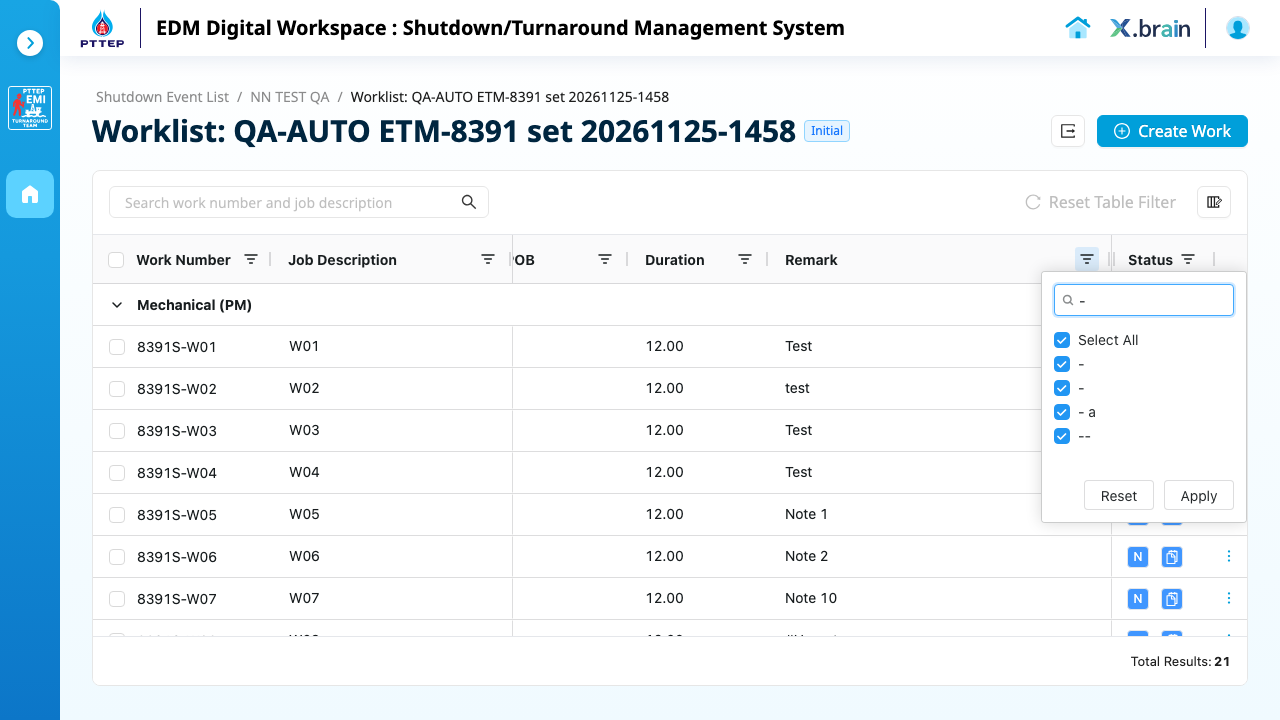
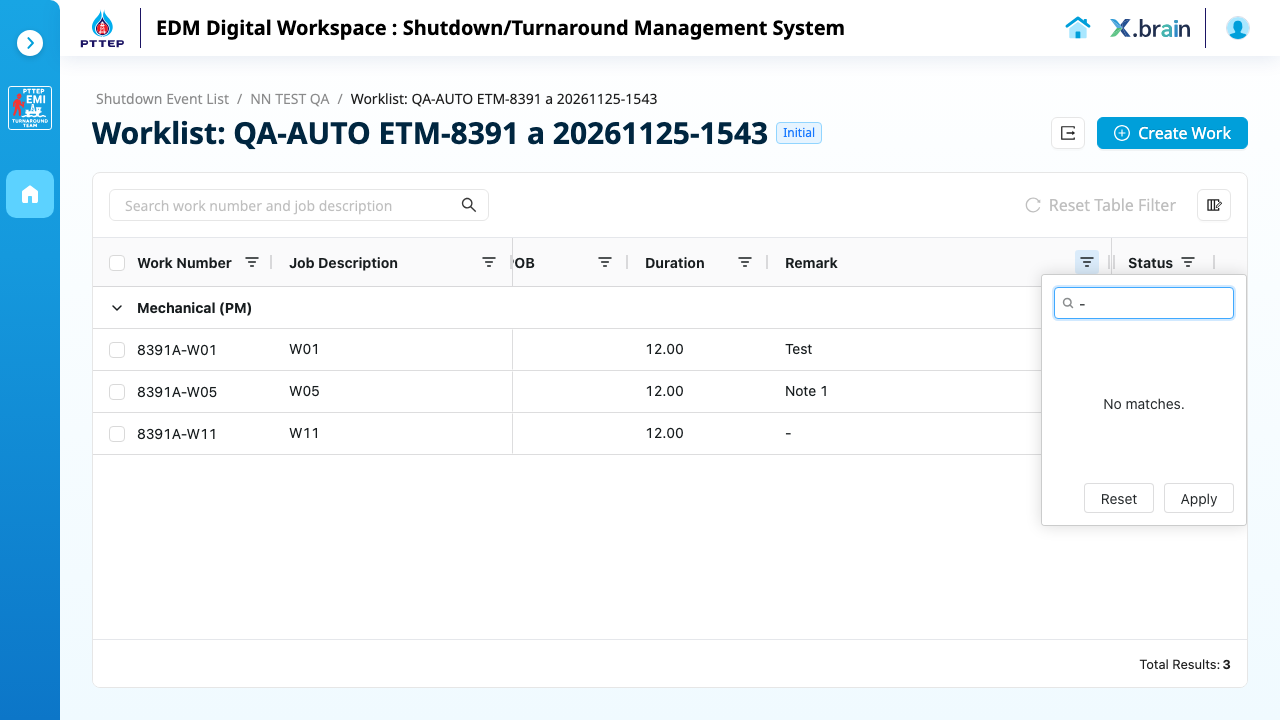
work(ETM-8391): Excel-mode filter by design, 8649/8655/8656 steps reworded and re-run, ETM-10065 retest

diff --git a/work/ETM-8391/handover.md b/work/ETM-8391/handover.md
@@ -1,0 +1,54 @@
+# ETM-8391 handover (25 Nov 2026, evening)
+
+Test Execution ETM-8874 (Test Plan ETM-8636). Xray at start of this session: 7 PASSED, 3 FAILED (8650, 8656, 8658), 6 TO DO. Nothing pushed to Xray or written to Jira in this session.
+
+## What happened today (evening)
+- A new FE build reached QA in the evening. The column filters now behave like the Excel filter: typing a search ticks the options found; `Apply` with nothing ticked is **disabled**; a selection made inside a search is dropped when the search is cleared; the search ignores letter case; during a search the row reads `(Select All Search Results)`; the button `Clear` is now `Reset`.
+- Script fixes (ep-etm-fe-qa, NOT committed): `tests/fe/e2e/worklist/remarkFilter.helpers.ts` (Select All regex incl. search results, `applyEnabled`, `applyNothingTicked`, `closeWithoutApply`, Select All drawn before use, untick of a partly ticked Select All), `verifyWorklistRemarkFilter.spec.ts` (8649 / 8655 compare "nothing ticked" with the Job Description filter as Apply disabled or Total Results; 8654 waits for rows). Read-only probe: `tests/fe/explore/etm8391FilterProbe.spec.ts`.
+- Runs: `2026-11-25_191825`, `192950` (full spec), `195104` (8649/8654/8655/8656), probe `195830` (search `-`).
+- Defects: ETM-8896, 8897, 8898, 8902 are "Ready for UAT". ETM-10065 (search `-`) is "Deployed to QA" and is **fixed on QA**: searching `-` lists Select All, `-` (Blank), ` - `, `- `, `- a`, `--` (probe picture `ep-etm-fe-qa/output/runs/2026-11-25_195830_ETM-8391/.../probe-dash.png`). Retest comment not written yet (needs the user's yes).
+
+## Status per test
+| Test | Xray now | Latest run | Next step / blocker |
+|---|---|---|---|
+| ETM-8648 | TO DO | skipped (precondition) | **Blocker:** needs a QA user without View Worklist. ETM has only TM and JO; BA/user to decide "not applicable" or give a user. |
+| ETM-8649 | PASSED | passed 195104 | none |
+| ETM-8650 | FAILED (ETM-8896) | skipped, partial (all measured checks passed, 192950) | ETM-8896 fixed (order now correct). **Blocker:** a person confirms the hover look in the pictures, then PASSED. |
+| ETM-8651 | TO DO | skipped, not-checked | **Blocker:** Create Work form has no Remark cell, so step "keep Remark empty" cannot be read; user confirms by hand or Xray step reworded (Jira write). |
+| ETM-8652 | PASSED | passed | none |
+| ETM-8653 | PASSED | passed | none |
+| ETM-8654 | TO DO | skipped, partial (all measured passed 195104) | **Blocker:** a person confirms the hover look in the pictures. |
+| ETM-8655 | PASSED | passed 195104 | Done (pushed). Passes with "Apply disabled, same as Job Description"; if the BA says B (bug) this changes. |
+| ETM-8656 | FAILED | failed 195104, step 6 | ETM-10065 part fixed. New failure: step 6/7 (ticks made inside a search are dropped when the search is cleared). **Blocker:** BA answer, `questions-for-BA-8656-search-select.md` (A = reword Xray steps 6-7, B = new defect). Verdict table: `verdict-table.md`. Note: push-plan still shows the old verdict `app` (ETM-10065); keep FAILED until the BA answers. |
+| ETM-8657 | TO DO | skipped, partial | **Blocker:** a person compares the two filter panels in the pictures. |
+| ETM-8658 | PASSED | passed 192950 | Done (pushed). |
+| ETM-8659-8662 | PASSED | passed | none |
+| ETM-8663 | TO DO | skipped, partial | **Blocker:** the real pre-release saved state cannot be made; user accepts the rebuilt old address as proof (then PASSED) or marks manual. |
+
+Push plan (`push-plan.md`): 10 PASSED + 8656 FAILED. ETM-8897 / ETM-8902 in the plan are defect retests, not Tests of ETM-8874: leave them out of the push.
+
+## Waiting for the user (one batch question, queued with `ask --later`)
+1. Xray push per `push-plan.md` (8655, 8658 to PASSED; others unchanged).
+2. "Retest: Passed" comment with the picture on ETM-10065.
+3. Send `questions-for-BA-8656-search-select.md` to the BA.
+4. The partial tests (8650, 8651, 8654, 8657, 8663): confirm from the pictures, and 8648 not applicable?
+5. Commit the script fixes in ep-etm-fe-qa.
+
+## Update 25 Nov 23:30
+- Xray ETM-8874 now: 9 PASSED, 2 FAILED (8650, 8656), 5 TO DO (8648, 8651, 8654, 8657, 8663). 8655 and 8658 were pushed from another session.
+- The five not-proven tests and 8648 are in ONE question: `partial-confirm.md` (per test: what the script proved, what a person must look at, which pictures). Answer like `8650=pass 8651=pass 8654=pass 8657=pass 8663=pass 8648=na`.
+- ETM-8897 and ETM-8902 removed from `run-results.json` / push plan: they are Defects, not Tests of ETM-8874. ETM-8902 manual retest (10:14) could not follow the defect flow: the edit page has no breadcrumb in this build (step 3 fail, steps 4-5 needs-human). The Defect is already "Ready for UAT"; no QA action left unless the BA says the flow still exists.
+- ETM-10065 "Retest: Passed" comment: still waiting for the user's own yes in this chat (the board question was closed without an answer).
+- stms-fe pulled to develop 1.26.36 (user asked, 26 Nov). The filter change is deliberate: commit 6fba9abf (ETM-10065 fix) set `excelMode: 'mac'`, `applyMiniFilterWhileTyping: false`; c6ac6044 (ETM-9231) made the search ignore case. Added to the BA question for 8656: likely answer A (reword Xray steps 6-7).
+- 25 Nov 23:34: user answered "ยังก่อน" on the board to the partial-confirm question. Nothing pushed; 8650/8651/8654/8657/8663/8648 stay as they are until the user answers again.
+
+## Update 26 Nov 09:55 - decision A applied
+- QA lead decision A (Excel-mode filter by design) recorded in `ba-answers.md`. Script: 8656 steps 6-7 rewritten (Apply while the search text is there; reopen shows only the Note ticks), pickOnly unticks the auto-ticked search results, 8656 step 9 and 8655 step 16 no longer depend on Total Results (other works exist: 22).
+- Runs 26 Nov: full spec `093547` (9 passed), `093308` 8656 passed (incl. steps 14-15 = ETM-10065 fixed), `095214` 8655 passed. All automated tests pass; 5 partial + 8648 unchanged (user: "ยังก่อน").
+- Waiting for the user's yes in this chat: Xray rewording `xray-reword-excel-mode.md` (8656 steps 6-7, 8655 steps 3/11/16/18/21/22, 8649 step 12; backup saved), then push 8656 FAILED -> PASSED, and the "Retest: Passed" comment on ETM-10065.
+
+## Done 26 Nov 10:05 (user yes in chat: "ได้ทำเลย")
+- Xray steps reworded (9 steps): 8656 steps 6-7, 8655 steps 3/11/16/18/21/22, 8649 step 12 (`xray-reword-excel-mode.md`, backup `xray-steps-before-8649-8655-8656-2026-11-26.json`).
+- ETM-8656 pushed PASSED in ETM-8874 with 15 step pictures (`xray-evidence-20261126/ETM-8656`).
+- ETM-10065: a "Retest: Passed" comment (with picture, [QA] Retest ETM-10088, status Ready for UAT) was already there from 25 Nov 21:30. Added a second comment (26 Nov) with steps 14-15 and two pictures, dev mentioned.
+- Xray ETM-8874 now: 10 PASSED, 1 FAILED (8650), 5 TO DO. Left: 8650/8651/8654/8657/8663 person check (partial-confirm.md, user said "ยังก่อน"), 8648 N/A question. Script fixes in ep-etm-fe-qa still not committed.

diff --git a/work/ETM-8391/defect-draft-search-dash.md b/work/ETM-8391/defect-draft-search-dash.md
@@ -1,22 +1,26 @@
-# [ETM-8391] Remark filter: searching "-" does not list the Blank option "-"
+# [ETM-8391] Remark filter: searching "-" does not find the Blank option "-" (No matches.)
 
-**Environment:** QA (https://stms-qa.apps.pttep.com), role Turnaround Manager, Worklist of a Plan on event NN TEST QA. Found 25 Nov 2026 by Playwright ETM-8656 step 14 (runs 2026-11-25 14:00 and 14:55) and checked by hand on the live page.
+**Environment:** QA (https://stms-qa.apps.pttep.com), role Turnaround Manager, Worklists of two Plans on event NN TEST QA. Found 25 Nov 2026 by Playwright ETM-8656 step 14, re-proved by hand on 25 Nov with data that can be entered on the screen.
 
-In the Worklist, the Remark column filter shows works with an empty Remark as the Blank option `-` (first under Select All). When `-` is typed into the Search box of that filter, the Blank option `-` is not listed, so it cannot be found or ticked through the search. Other options that contain a hyphen are listed.
+In the Worklist, the Remark column filter shows works with a Blank Remark as the option `-`. Typing `-` in the Search box of that filter finds nothing ("No matches."), although `-` is in the option list. This happens both when the Remark is empty and when the Remark is exactly `-` typed by the user.
 
-Data (made through the screen): works with Remark empty (W11), `-` (W13), `--` (W14), `- a` (W15), `- ` (W21), ` - ` (W22).
+Data (both can be entered on the screen):
+- Plan A: W01 Remark `Test`, W05 Remark `Note 1`, W11 Remark empty.
+- Plan C: W01 Remark `Test`, W05 Remark `Note 1`, W13 Remark `-`.
 
 ### Step to Reproduce
-1. Log in as Turnaround Manager and open the Worklist of the Plan.
-2. Open the filter on the Remark column. The list shows `-` (Blank) first under Select All.
+1. Log in as Turnaround Manager and open the Worklist of Plan A (or Plan C).
+2. Open the filter on the Remark column. The options are `-`, `Note 1`, `Test`.
 3. Type `-` in the Search box of the filter.
 
 ### Actual Result
-Only `--`, `- a`, `- ` and ` - ` are listed. The Blank option `-` is not in the list.
+The filter shows "No matches." The option `-` is not found, in Plan A (empty Remark) and in Plan C (Remark `-`).
 
 Pictures:
-- work/ETM-8391/defect5-pics/1-before-full-list-has-dash.png (full list, Blank `-` shown first)
-- work/ETM-8391/defect5-pics/2-search-dash-no-blank-option.png (after typing `-`: no Blank option)
+- work/ETM-8391/defect5-pics/plan-a-1-options-before-search.png (Plan A, options `-`, `Note 1`, `Test`)
+- work/ETM-8391/defect5-pics/plan-a-2-after-typing-dash.png (Plan A, after typing `-`: No matches.)
+- work/ETM-8391/defect5-pics/plan-c-1-options-before-search.png (Plan C, options `-`, `Note 1`, `Test`)
+- work/ETM-8391/defect5-pics/plan-c-2-after-typing-dash.png (Plan C, after typing `-`: No matches.)
 
 ### Expected Result
-The Blank option `-` is listed together with `--`, `- a`, `- ` and ` - ` (Xray ETM-8656 step 14), so the user can tick only `-` from the search (step 15).
+The option `-` is listed after typing `-`, so the user can tick it from the search (Xray ETM-8656 steps 14 and 15: typing `-` lists the hyphen options including `-`; tick only `-` shows only the Blank works).

diff --git a/work/ETM-8391/evidence-check/defect-draft-search-dash.brief.md b/work/ETM-8391/evidence-check/defect-draft-search-dash.brief.md
@@ -1,25 +1,29 @@
 # Evidence check defect-draft-search-dash (ETM-8391, defect)
 
-sourceHash: 4ca89179efb4
+sourceHash: 6266bbf434eb
 
 You read this BLIND: the first agent's result is not here on purpose. Do not open the source file, the run log,
 findings.json, verdict-table.md or any file that states a result for this check. Read the pictures yourself.
 
 ## Environment
-QA (https://stms-qa.apps.pttep.com), role Turnaround Manager, Worklist of a Plan on event NN TEST QA. Found 25 Nov 2026 by Playwright ETM-8656 step 14 (runs 2026-11-25 14:00 and 14:55) and checked by hand on the live page.
+QA (https://stms-qa.apps.pttep.com), role Turnaround Manager, Worklists of two Plans on event NN TEST QA. Found 25 Nov 2026 by Playwright ETM-8656 step 14, re-proved by hand on 25 Nov with data that can be entered on the screen.
 
-In the Worklist, the Remark column filter shows works with an empty Remark as the Blank option `-` (first under Select All). When `-` is typed into the Search box of that filter, the Blank option `-` is not listed, so it cannot be found or ticked through the search. Other options that contain a hyphen are listed.
+In the Worklist, the Remark column filter shows works with a Blank Remark as the option `-`. Typing `-` in the Search box of that filter finds nothing ("No matches."), although `-` is in the option list. This happens both when the Remark is empty and when the Remark is exactly `-` typed by the user.
 
-Data (made through the screen): works with Remark empty (W11), `-` (W13), `--` (W14), `- a` (W15), `- ` (W21), ` - ` (W22).
+Data (both can be entered on the screen):
+- Plan A: W01 Remark `Test`, W05 Remark `Note 1`, W11 Remark empty.
+- Plan C: W01 Remark `Test`, W05 Remark `Note 1`, W13 Remark `-`.
 
 ## Steps
-1. Log in as Turnaround Manager and open the Worklist of the Plan.
-2. Open the filter on the Remark column. The list shows `-` (Blank) first under Select All.
+1. Log in as Turnaround Manager and open the Worklist of Plan A (or Plan C).
+2. Open the filter on the Remark column. The options are `-`, `Note 1`, `Test`.
 3. Type `-` in the Search box of the filter.
 
 ## Expected Result (as the draft states it: check it has a source)
-The Blank option `-` is listed together with `--`, `- a`, `- ` and ` - ` (Xray ETM-8656 step 14), so the user can tick only `-` from the search (step 15).
+The option `-` is listed after typing `-`, so the user can tick it from the search (Xray ETM-8656 steps 14 and 15: typing `-` lists the hyphen options including `-`; tick only `-` shows only the Blank works).
 
 ## Pictures
 - /Users/ncy/Downloads/NN/DocforAi/STMS/qa-team-etm/work/ETM-8391/evidence-check/defect-draft-search-dash.pics/pic-1.png
 - /Users/ncy/Downloads/NN/DocforAi/STMS/qa-team-etm/work/ETM-8391/evidence-check/defect-draft-search-dash.pics/pic-2.png
+- /Users/ncy/Downloads/NN/DocforAi/STMS/qa-team-etm/work/ETM-8391/evidence-check/defect-draft-search-dash.pics/pic-3.png
+- /Users/ncy/Downloads/NN/DocforAi/STMS/qa-team-etm/work/ETM-8391/evidence-check/defect-draft-search-dash.pics/pic-4.png

diff --git a/work/ETM-8391/questions-for-BA-8656-search-select.md b/work/ETM-8391/questions-for-BA-8656-search-select.md
@@ -1,0 +1,28 @@
+# ETM-8391 Question for BA: Remark filter, selection made inside a search after the search is cleared
+
+Story: ETM-8391 [Improvement] View Worklist Table - Remark Column Filter
+Xray Test: ETM-8656, steps 5 to 7. Seen on QA on 25 Nov 2026 (evening build), Turnaround Manager, automated run `2026-11-25_195104_ETM-8391` and a read-only check of the panel.
+
+## What changed in the evening build of 25 Nov 2026
+The column filters (Remark and Job Description alike) now behave like the Excel filter:
+1. Typing in the filter's Search box ticks all options found (e.g. `Note` ticks `Note 1`, `Note 2`, `Note 10`).
+2. Clicking `Apply` while the search text is there filters the table to the options found (only W05, W06, W07).
+3. Clearing the Search box (without Apply) brings back the full list with the earlier selection: every option ticked again. The ticks made inside the search are not kept.
+4. With nothing ticked, `Apply` is disabled (it was enabled before and gave "No results found").
+5. The search ignores letter case now (`note` finds `Note 1`).
+
+## Test ETM-8656 as written
+- Step 5: untick everything, type `Note`, tick Select All: the three Note options are ticked. **Matches.**
+- Step 6: clear the Search box: only the three Note options stay ticked, the other options are not ticked. **Live: every option is ticked again.**
+- Step 7: Apply: only the Note works are shown. **Live: every option is ticked, so Apply after the cleared search shows all works** (read from the ticks; not applied in the run).
+
+## Question
+Is the new behaviour (point 3: a selection made inside a search is dropped when the search is cleared; the user must click Apply while the search text is still there) the intended design?
+- **A.** Yes, by design (Excel-like filter, same for all columns). QA will reword Xray ETM-8656 steps 6 and 7 to "Apply while the search text `Note` is shown -> only W05, W06, W07", and the nothing-ticked steps (ETM-8649, ETM-8655) to "Apply is disabled, same as the Job Description filter".
+- **B.** No, the ticks made inside a search must be kept after the search is cleared. Then this is a bug in all column filters.
+
+Please also confirm point 4 (Apply disabled when nothing is ticked) is intended. Earlier answer (24 Nov, Q6) said nothing ticked shows no works.
+
+## Note from the code (stms-fe develop 1.26.36, read only)
+The change is deliberate: commit `6fba9abf` (25 Nov 17:03, "ETM-10065 ... Blank filter") set the worklist column filters to AG Grid `excelMode: 'mac'` with `applyMiniFilterWhileTyping: false`. The dev comment says: typing in the search box narrows the ticked options to the matches, so Apply after a search keeps only what was found. In this mode a selection made inside a search is not kept when the search is cleared, and Apply is disabled while nothing is ticked. Commit `c6ac6044` (ETM-9231) made the search ignore letter case again on purpose.
+So the question is only whether the BA agrees with this design (answer A), or wants the old behaviour back (answer B).

diff --git a/work/ETM-8391/partial-confirm.md b/work/ETM-8391/partial-confirm.md
@@ -1,0 +1,18 @@
+# ETM-8391 - tests that need a person's look (25 Nov 2026)
+
+The script ran every step of these tests and every measured check passed. Each stays "Not proven" only for the part named below, which a script cannot judge. Answer per test in one reply, e.g. `8650=pass 8651=pass 8654=pass 8657=fail 8663=manual 8648=na`.
+A `pass` becomes PASSED in Xray (8650 is FAILED now, from defect ETM-8896, which is Ready for UAT). Nothing is pushed before your answer.
+
+Evidence reports (open in the browser; step pictures inside):
+- R1 = `ep-etm-fe-qa/output/runs/2026-11-25_192950_ETM-8391/evidence-report-ETM-8391-20261125-192950.html` (8650, 8651, 8657, 8663)
+- R2 = `ep-etm-fe-qa/output/runs/2026-11-25_195104_ETM-8391/evidence-report-ETM-8391-20261125-195104.html` (8654)
+Step pictures also in `ep-etm-fe-qa/output/evidence/<TEST>/`.
+
+| Test | Script proved (all steps ran, all checks passed) | Left for a person | Where to look |
+|---|---|---|---|
+| ETM-8650 | `-` first and only once; Note 1, Note 2, Note 10 order; symbols, digits, A-Z, Thai order (ETM-8896 fixed); long option cut with ellipsis on one line, hover text = full value | Does the hover text box LOOK right (readable, not cut) | R1, ETM-8650 steps 13 and 16 |
+| ETM-8651 | Empty, spaces-only and `-` Remarks are one `-` option; a work saved with no Remark joins `-`; same in worklists A, B, C | Step 4 "keep Remark empty on Create Work": the form has **no Remark field**, so the script could not read it. The work is saved without a Remark and shows under `-` (step 6). Accept as pass, or reword step 4 ("the form has no Remark field") | R1, ETM-8651 steps 4 to 6 |
+| ETM-8654 | The 60+ option list scrolls inside the panel, page behind does not move, Remark 060 last and can be ticked; W17 cell has ellipsis; hover text = full 200 characters, also after the filter was opened | Does the hover text box LOOK right | R2, ETM-8654 steps 5 to 7 |
+| ETM-8657 | Fonts, colours, sizes, spacing, checkbox and search box of the Remark panel equal the Job Description panel | Do the two panels look the same to you | R1, ETM-8657 steps 1 to 3 |
+| ETM-8663 | Old Remark keys (`wsRemarkType` / `wsRemarkValue`) in the address, in the `#` part and as an old query link, are dropped: the Remark filter starts at Select All, Job Owner kept, table not filtered by the old text | The real pre-release saved state cannot be made any more; the old state is rebuilt as an old-format address. Accept this as proof (pass), or mark manual / not applicable | R1, ETM-8663 steps 3 to 9 |
+| ETM-8648 | not run | Needs a QA login WITHOUT View Worklist. ETM has only TM and JO (both can view the worklist), so no such user exists. Mark not applicable (stays TO DO with a comment), or the BA names a user | - |

diff --git a/work/ETM-8391/push-plan.md b/work/ETM-8391/push-plan.md
@@ -1,24 +1,22 @@
-# ETM-8391 - Xray push plan (2026-11-25)
+# ETM-8391 - Xray push plan (2026-11-26)
 
-Send 8: 8 PASSED, 0 FAILED. Stay TO DO: 10.
+Send 10: 10 PASSED, 0 FAILED. Stay TO DO: 6.
 
 | Test | Latest result | Send to Xray | Why |
 |---|---|---|---|
 | ETM-8648 | skipped:precondition | stays TO DO | skipped / not proven: never PASSED |
-| ETM-8649 | passed | PASSED | passed in 2026-11-25_113137_ETM-8391 |
+| ETM-8649 | passed | PASSED | passed in 2026-11-26_093547_ETM-8391 |
 | ETM-8650 | skipped:not-proven | stays TO DO | skipped / not proven: never PASSED |
 | ETM-8651 | skipped:not-proven | stays TO DO | skipped / not proven: never PASSED |
-| ETM-8652 | passed | PASSED | passed in 2026-11-25_113137_ETM-8391 |
-| ETM-8653 | passed | PASSED | passed in 2026-11-25_113137_ETM-8391 |
-| ETM-8654 | failed | stays TO DO | no verdict yet (verdicts.mjs table) |
-| ETM-8655 | failed | stays TO DO | no verdict yet (verdicts.mjs table) |
-| ETM-8656 | failed | stays TO DO | no verdict yet (verdicts.mjs table) |
+| ETM-8652 | passed | PASSED | passed in 2026-11-26_093547_ETM-8391 |
+| ETM-8653 | passed | PASSED | passed in 2026-11-26_093547_ETM-8391 |
+| ETM-8654 | skipped:not-proven | stays TO DO | skipped / not proven: never PASSED |
+| ETM-8655 | passed | PASSED | passed in 2026-11-26_095214_ETM-8391 |
+| ETM-8656 | passed | PASSED | passed in 2026-11-26_093547_ETM-8391 |
 | ETM-8657 | skipped:not-proven | stays TO DO | skipped / not proven: never PASSED |
-| ETM-8658 | failed | stays TO DO | no verdict yet (verdicts.mjs table) |
-| ETM-8659 | passed | PASSED | passed in 2026-11-25_132527_ETM-8391 |
-| ETM-8660 | passed | PASSED | passed in 2026-11-25_113137_ETM-8391 |
-| ETM-8661 | passed | PASSED | passed in 2026-11-25_113137_ETM-8391 |
-| ETM-8662 | passed | PASSED | passed in 2026-11-25_113137_ETM-8391 |
-| ETM-8663 | failed | stays TO DO | no verdict yet (verdicts.mjs table) |
-| ETM-8897 | passed | PASSED | passed in 2026-11-25_101437_ETM-8391_manual_8897 |
-| ETM-8902 | failed | stays TO DO | no verdict yet (verdicts.mjs table) |
+| ETM-8658 | passed | PASSED | passed in 2026-11-26_093547_ETM-8391 |
+| ETM-8659 | passed | PASSED | passed in 2026-11-26_093547_ETM-8391 |
+| ETM-8660 | passed | PASSED | passed in 2026-11-26_093547_ETM-8391 |
+| ETM-8661 | passed | PASSED | passed in 2026-11-26_093547_ETM-8391 |
+| ETM-8662 | passed | PASSED | passed in 2026-11-26_093547_ETM-8391 |
+| ETM-8663 | skipped:not-proven | stays TO DO | skipped / not proven: never PASSED |

diff --git a/work/ETM-8391/dev-brief-ETM-10065.md b/work/ETM-8391/dev-brief-ETM-10065.md
@@ -1,13 +1,13 @@
-# Dev brief - [ETM-8391] Remark filter: searching "-" does not list the Blank option "-"
+# Dev brief ETM-10065 - [ETM-8391] Remark filter: typing "-" in the filter search finds nothing (No matches.)
 
 ## 1. What is wrong
-In the Worklist Remark column filter, works with a Blank Remark (empty) are grouped under the option `-`. Typing `-` in the filter's Search box lists the other hyphen values (`--`, `- a`, `- `, ` - `) but not the Blank option `-`. The Blank option cannot be found through the search.
+In the Worklist Remark column filter, works with a Blank Remark (empty, or exactly `-`) are grouped under the option `-`. Typing `-` in the filter's Search box shows "No matches." (with other hyphen values present, e.g. `--`, `- a`, those are listed but `-` is not). The Blank option cannot be found through the search.
 
 ## 2. Where
 - Page: Worklist of a Plan (`/shutdown-event-list/events/<event>/planning/<plan>/worklist/<worklist>`), Remark column filter (AG Grid set filter with the Search box "Search filter values").
 - Environment: QA (https://stms-qa.apps.pttep.com), 25 Nov 2026.
 - Role: Turnaround Manager.
-- Data: works with Remark empty, `-`, `--`, `- a`, `- `, ` - ` (all can be entered on the screen).
+- Data (entered on the screen): Plan A W01 `Test`, W05 `Note 1`, W11 empty; Plan C W01 `Test`, W05 `Note 1`, W13 `-`.
 
 ## 3. Steps to reproduce
 1. Open the Worklist of the Plan.
@@ -17,8 +17,8 @@ In the Worklist Remark column filter, works with a Blank Remark (empty) are grou
 ## 4. Actual vs Expected
 | | Result |
 |---|---|
-| Actual | Only `--`, `- a`, `- `, ` - ` are listed. No Blank option `-`. |
-| Expected | `-` (Blank) is listed too, with `--`, `- a`, `- `, ` - `, and can be ticked alone from the search. |
+| Actual | "No matches." in Plan A (empty Remark) and Plan C (Remark `-`). |
+| Expected | `-` (Blank) is listed, with any other hyphen values, and can be ticked alone from the search. |
 
 ## 5. Rule source
 - Story ETM-8391: Blank Remarks (empty, spaces only, exactly `-`) are shown as one option `-`.

diff --git a/work/ETM-8391/xray-reword-excel-mode.md b/work/ETM-8391/xray-reword-excel-mode.md
@@ -1,0 +1,15 @@
+# ETM-8391 - Xray rewording for the Excel-mode filter (WRITTEN 26 Nov 2026 10:00, user yes in chat "ได้ทำเลย"; 8655 step 3/22 written without the table clause, 8655 step 16/22 action now "Look at the Apply button")
+
+Decision: QA lead, 26 Nov 2026, answer A (by design; stms-fe commit 6fba9abf `excelMode: 'mac'`). Backup of the current text: `xray-steps-before-8649-8655-8656-2026-11-26.json`. Writing needs the user's yes in this chat.
+
+| Test | Step | Action (new) | Expected (new) |
+|---|---|---|---|
+| ETM-8656 | 6 | Click `Apply` while `Note` is still in the search box. | Only W05, W06 and W07 are shown. |
+| ETM-8656 | 7 | Open the filter on the `Remark` column again. | Only `Note 1`, `Note 2` and `Note 10` are ticked. (A selection made inside a search is not kept if the search is cleared before Apply: by design.) |
+| ETM-8655 | 3 | Untick `Note 2`. | No option is ticked and `Apply` is disabled, the same as the Job Description filter with nothing ticked; the table still shows only W06. |
+| ETM-8655 | 11 | Untick `Select All` in the `Job Description` filter. | Every option is unticked and `Apply` is disabled (Job Description reference). |
+| ETM-8655 | 16 | Look at the `Apply` button and the table. | Same as the Job Description reference: `Apply` is disabled and the table keeps the last applied filter (all works except W05). |
+| ETM-8655 | 18 | Tick one option in the `Job Description` filter and untick it again. | No option is ticked and `Apply` is disabled (single-untick reference). |
+| ETM-8655 | 21 | Untick `Note 1`. | No option is ticked and `Apply` is disabled. |
+| ETM-8655 | 22 | Look at the table. | Same as the single-untick reference: the table still shows only W05. |
+| ETM-8649 | 12 | Untick `Note 1`. | No option is ticked and `Apply` is disabled, the same as the Job Description filter with nothing ticked. |

diff --git a/work/ETM-8391/defect-drafts.md b/work/ETM-8391/defect-drafts.md
@@ -146,7 +146,7 @@ Xray: no Test step covers this flow. Link to ETM-8662 (reload with Blank) as the
 
 ---
 
-## Defect 5 - Searching "-" in the Remark filter does not list the Blank option "-"
+## Defect 5 - LOGGED ETM-10065 (25 Nov 2026) - Searching "-" in the Remark filter does not find the Blank option "-"
 
 Found: Playwright ETM-8656 step 14 (runs 2026-11-25 14:00 and 14:55), confirmed by hand on the live page 25 Nov; the user agreed it is wrong (chat 25 Nov).
 Data (made through the UI, reachable): a worklist with works whose Remark is empty (W11), `-` (W13), `--` (W14), `- a` (W15), `- ` (W21), ` - ` (W22).
@@ -160,7 +160,7 @@ Expected: the options that contain `-` are listed, including the Blank option `-
 Actual: only `--`, `- a`, `- `, ` - ` are listed; the Blank option `-` is missing, so it cannot be found or ticked through the search (step 15 "tick only -" cannot be done this way).
 Likely cause (for the dev brief): the search matches the stored value (empty) instead of the shown label `-`.
 Evidence: output/runs/2026-11-25_145518_ETM-8391 (ETM-8656 step 14 picture).
-Status: draft, not logged. Logging needs the user's yes.
+Status: LOGGED as ETM-10065 (user "Log ได้เลย", blind check defect-proven after re-proof on Plans A/C with screen-made data). Sub-task ETM-10066. Xray ETM-8874 / ETM-8656 step 14 FAILED + linked.
 
 ## Not drafted (still unclear, may be script)
 

diff --git a/work/ETM-8391/ba-answers.md b/work/ETM-8391/ba-answers.md
@@ -35,3 +35,11 @@ Answer (by design, not a bug):
 - Ticking another column filter (e.g. Job Owner) does **not** change the Remark options: they stay all values of the worklist.
 - DEC-040 "options come from all works" holds except while a search text is active.
 Changes: Xray ETM-8658 step 8 reworded; spec step 8 expects only the Remark of W05.
+
+## Excel-mode column filter - QA LEAD DECISION (26 Nov 2026, answer A, by design)
+Source: the user (QA lead), main chat 26 Nov 2026, relayed by the lead session; question `questions-for-BA-8656-search-select.md`. Code: stms-fe 6fba9abf (`excelMode: 'mac'`, `applyMiniFilterWhileTyping: false`), c6ac6044 (search ignores case).
+- Typing a search ticks the options found; Apply while the search text is there filters to them.
+- Clearing the search before Apply drops the ticks made during the search (by design).
+- Apply is disabled while nothing is ticked (replaces the 24 Nov Q6 answer "nothing ticked = no works").
+- Search ignores letter case.
+Changes: spec 8656 steps 6-7 rewritten; 8649 / 8655 compare "Apply disabled" with the Job Description filter. Xray rewording: `xray-reword-excel-mode.md` (needs the user's yes).

diff --git a/work/ETM-8391/verdict-table.md b/work/ETM-8391/verdict-table.md
@@ -1,6 +1,7 @@
-# ETM-8391 - failures to decide (run 2026-11-25_095719_ETM-8391)
+# ETM-8391 - failures to decide (run 2026-11-25_195104_ETM-8391)
 
 AI suggestion only. Answer all rows in one reply, e.g. `1=script 2=app 3=tc` (script / tc / app / env / flaky).
 
 | # | Test | Failed with | Cause | AI suggests | Why |
 |---|---|---|---|---|---|
+| 1 | ETM-8656 | Error: Other options are not ticked | unknown | app? | an Expected Result was not met: look at the step picture; app bug or TC wording |
